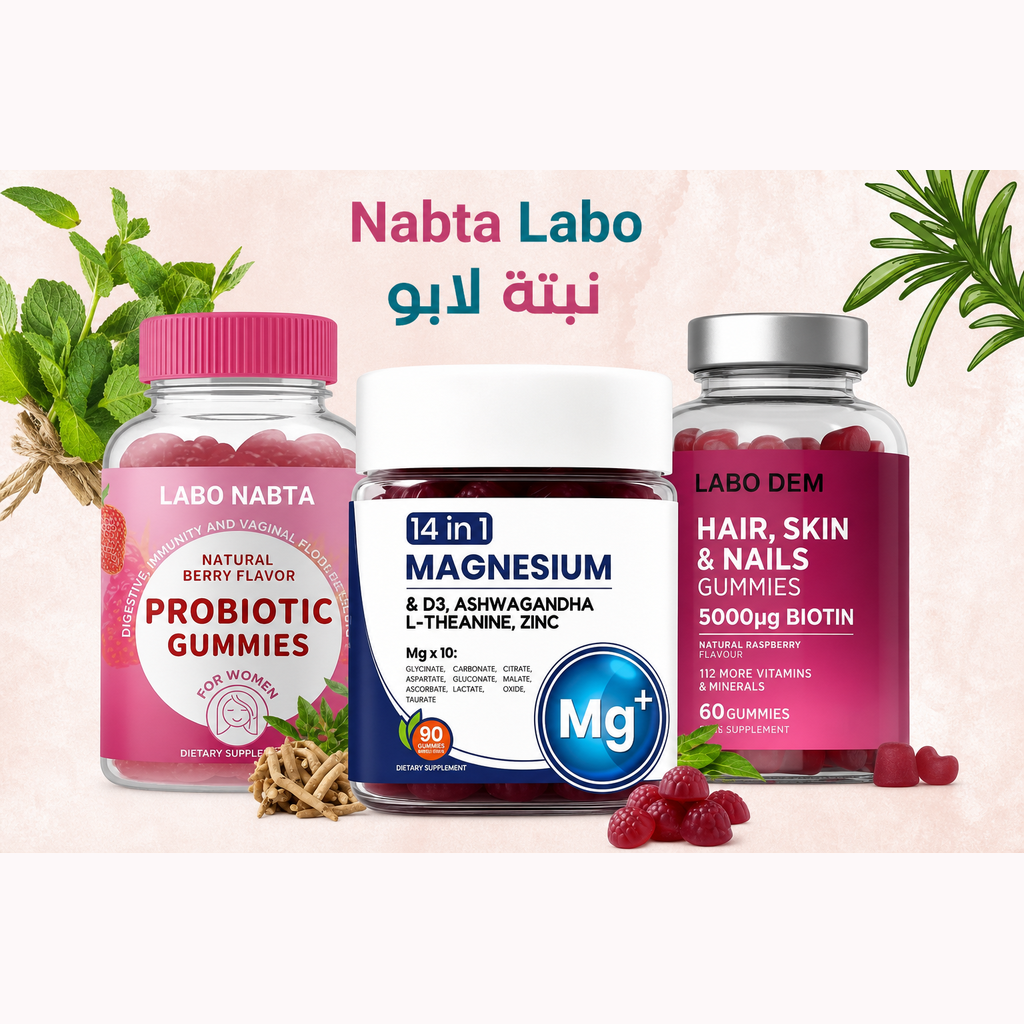
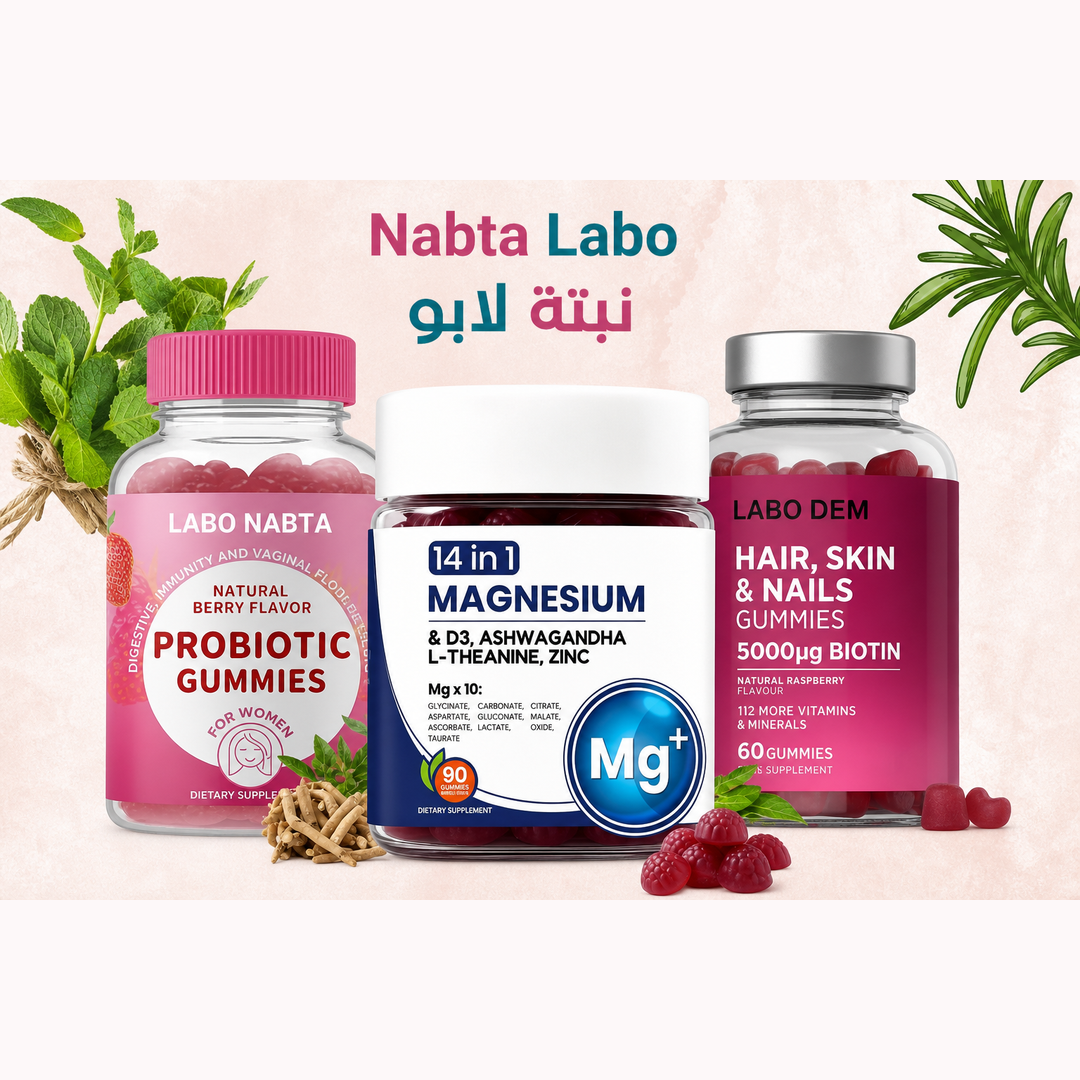
Homepage hero: 1080x1080 square, full image without crop.
Fit trio asset with contain on pink background; match original square frame.

diff --git a/app/page.tsx b/app/page.tsx
@@ -153,8 +153,8 @@ export default function HomePage() {
                 <Image
                   src="/hero-store-trio.png"
                   alt="ثلاث علكات Labo Nabta: بروبيوتيك للنساء، مغنيسيوم ١٤ من ١، وجمال الشعر والبشرة والأظافر ببيوتين"
-                  width={1024}
-                  height={1024}
+                  width={1080}
+                  height={1080}
                   priority
                   sizes="(max-width: 768px) 100vw, 560px"
                   className="block h-auto w-full object-contain"
